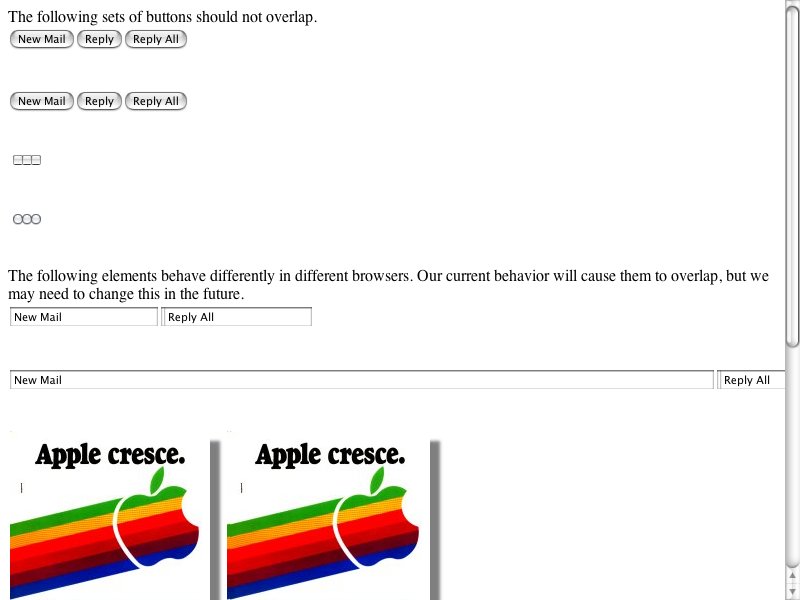
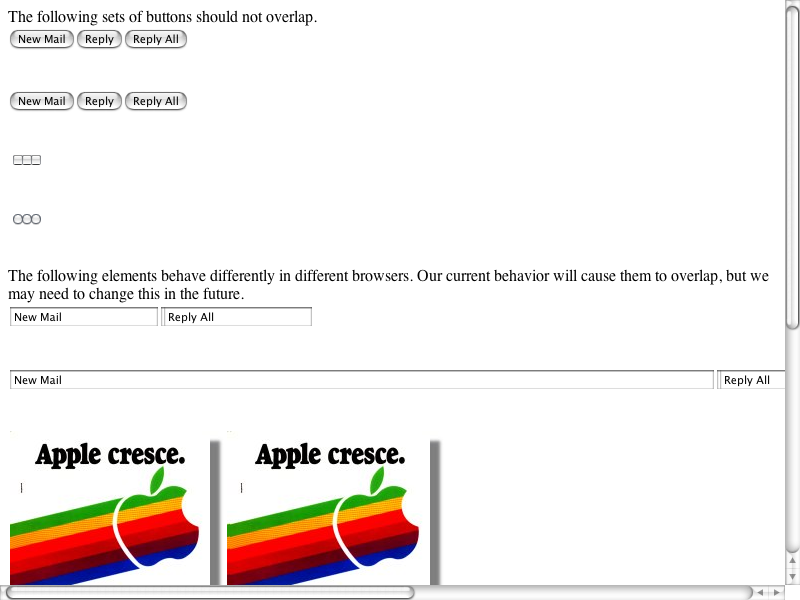
LayoutTests:
Reviewed by Hyatt.

         - new test and updated results for
           http://bugzilla.opendarwin.org/show_bug.cgi?id=7054
           Vertical scroll bars do not appear or do not scroll completely

         * fast/replaced/width100percent-expected.checksum: Updated.
         * fast/replaced/width100percent-expected.png: Updated.
         * fast/replaced/width100percent-expected.txt: Updated.
         * fast/table/edge-offsets-expected.checksum: Added.
         * fast/table/edge-offsets-expected.png: Added.
         * fast/table/edge-offsets-expected.txt: Added.
         * fast/table/edge-offsets.html: Added.

WebCore:

         Test: fast/table/edge-offsets.html

         Reviewed by Hyatt.

         - fix http://bugzilla.opendarwin.org/show_bug.cgi?id=7054
           Vertical scroll bars do not appear or do not scroll completely

         * rendering/RenderTableSection.cpp:
         (WebCore::RenderTableSection::lowestPosition): Override the superclass implementation
         to return the lowest of all the cells' lowest positions and the section's.
         (WebCore::RenderTableSection::rightmostPosition): Ditto for rightmost.
         (WebCore::RenderTableSection::leftmostPosition): Ditto for leftmost.
         * rendering/RenderTableSection.h:

Identifier: 10755@main
git-svn-id: https://svn.webkit.org/repository/webkit/trunk@12758 268f45cc-cd09-0410-ab3c-d52691b4dbfc

Changed region(s): [[0.0, 0.9, 1.0, 1.0], [0.9688, 0.54, 1.0, 0.6]]

diff --git a/LayoutTests/fast/table/edge-offsets.html b/LayoutTests/fast/table/edge-offsets.html
@@ -1,0 +1,68 @@
+<html>
+<head>
+    <title></title>
+    <style type="text/css">
+        div.overflow {
+            overflow: auto;
+            width: 100px;
+            height: 100px;
+            border: solid blue 1px;
+        }
+        div.container {
+            position: relative;
+        }
+        div.abs {
+            position: absolute;
+            width: 60px;
+            height: 60px;
+            background: silver; 
+        }
+    </style>
+</head>
+<body>
+    <p>
+        This tests for a regression against
+        <i><a href="http://bugzilla.opendarwin.org/show_bug.cgi?id=7054">http://bugzilla.opendarwin.org/show_bug.cgi?id=7054</a>
+        Vertical scroll bars do not appear or do not scroll completely</i>.
+    </p>
+    <p>
+        The top two boxes should have horizontal scroll bars. The bottom box should have a vertical scroll bar.
+    </p>
+    <hr>
+    <div class="overflow">
+        <table>
+            <tr>
+                <td>
+                    <div class="container">
+                        <div class="abs" style="left: 70px;"></div>
+                    </div>
+                </td>
+            </tr>
+        </table>
+    </div>
+    <br>
+    <div class="overflow" style="direction: rtl;">
+        <table>
+            <tr>
+                <td>
+                    <div class="container">
+                        <div class="abs" style="right: 70px;"></div>
+                    </div>
+                </td>
+            </tr>
+        </table>
+    </div>
+    <br>
+    <div class="overflow">
+        <table>
+            <tr>
+                <td>
+                    <div class="container">
+                        <div class="abs" style="top: 70px;"></div>
+                    </div>
+                </td>
+            </tr>
+        </table>
+    </div>
+</body>
+</html>

diff --git a/WebCore/rendering/RenderTableSection.cpp b/WebCore/rendering/RenderTableSection.cpp
@@ -534,6 +534,56 @@ int RenderTableSection::layoutRows(int toAdd)
     return m_height;
 }
 
+int RenderTableSection::lowestPosition(bool includeOverflowInterior, bool includeSelf) const
+{
+    int bottom = RenderContainer::lowestPosition(includeOverflowInterior, includeSelf);
+    if (!includeOverflowInterior && hasOverflowClip())
+        return bottom;
+
+    for (RenderObject *row = firstChild(); row; row = row->nextSibling()) {
+        for (RenderObject *cell = row->firstChild(); cell; cell = cell->nextSibling())
+            if (cell->isTableCell()) {
+                int bp = cell->yPos() + cell->lowestPosition(false);
+                bottom = kMax(bottom, bp);
+        }
+    }
+    
+    return bottom;
+}
+
+int RenderTableSection::rightmostPosition(bool includeOverflowInterior, bool includeSelf) const
+{
+    int right = RenderContainer::rightmostPosition(includeOverflowInterior, includeSelf);
+    if (!includeOverflowInterior && hasOverflowClip())
+        return right;
+
+    for (RenderObject *row = firstChild(); row; row = row->nextSibling()) {
+        for (RenderObject *cell = row->firstChild(); cell; cell = cell->nextSibling())
+            if (cell->isTableCell()) {
+                int rp = cell->xPos() + cell->rightmostPosition(false);
+                right = kMax(right, rp);
+        }
+    }
+    
+    return right;
+}
+
+int RenderTableSection::leftmostPosition(bool includeOverflowInterior, bool includeSelf) const
+{
+    int left = RenderContainer::leftmostPosition(includeOverflowInterior, includeSelf);
+    if (!includeOverflowInterior && hasOverflowClip())
+        return left;
+    
+    for (RenderObject *row = firstChild(); row; row = row->nextSibling()) {
+        for (RenderObject *cell = row->firstChild(); cell; cell = cell->nextSibling())
+            if (cell->isTableCell()) {
+                int lp = cell->xPos() + cell->leftmostPosition(false);
+                left = kMin(left, lp);
+        }
+    }
+    
+    return left;
+}
 
 void RenderTableSection::paint(PaintInfo& i, int tx, int ty)
 {

diff --git a/WebCore/rendering/RenderTableSection.h b/WebCore/rendering/RenderTableSection.h
@@ -81,6 +81,9 @@ public:
         return (*grid[row].row)[col];
     }
 
+    virtual int lowestPosition(bool includeOverflowInterior, bool includeSelf) const;
+    virtual int rightmostPosition(bool includeOverflowInterior, bool includeSelf) const;
+    virtual int leftmostPosition(bool includeOverflowInterior, bool includeSelf) const;
     virtual void paint(PaintInfo& i, int tx, int ty);
 
     int numRows() const { return gridRows; }
